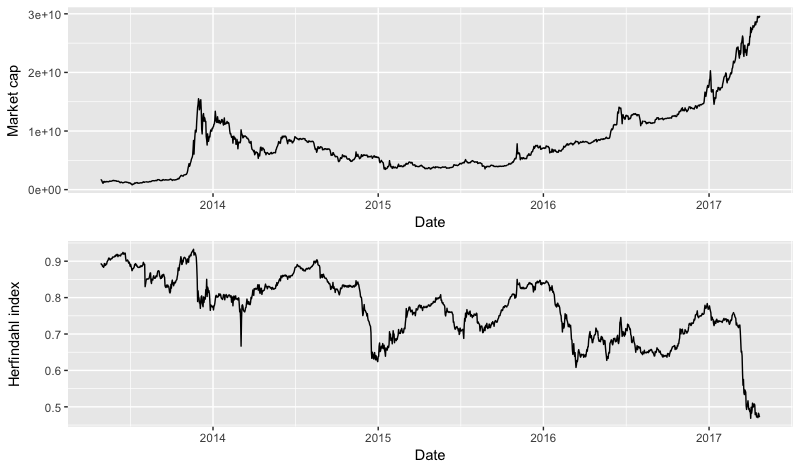
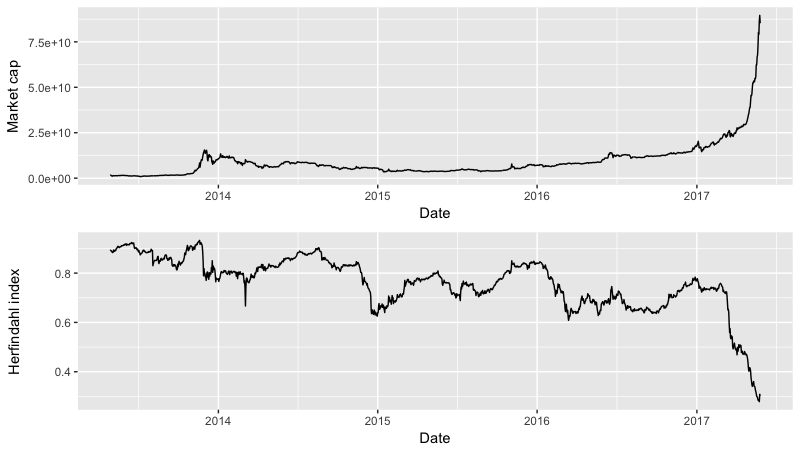
Updated 26/05/17

diff --git a/README.md b/README.md
@@ -7,7 +7,7 @@ Especially in light of the increasing number of successful coins and [decreasing
 
 ## Progress
 
-*Data updated 23/04/2017; Extended to top 25; Added assets; Fixed error in corrplot*
+*Data updated 26/05/2017; Extended to top 25; Added assets; Fixed error in corrplot*
 
 This is a work in progress. Steps taken so far:
 
@@ -18,8 +18,8 @@ This is a work in progress. Steps taken so far:
 	> The Herfindahl index measures competition in a market by summing the squares of all competitor market shares. It ranges from 1/N (highly competitive) to 1 (high concentration), where N is the number of competitors. [More information.](https://en.wikipedia.org/wiki/Herfindahl_index)
 
 	- Here, we see that both market capitalisation and competition are increasing over time.
-	
-	![Market cap and hHerfindahl index](https://raw.githubusercontent.com/prouast/cryptocurrency-analysis/master/Market-cap-herfindahl.png?style=centerme)
+
+	![Market cap and Herfindahl index](https://raw.githubusercontent.com/prouast/cryptocurrency-analysis/master/Market-cap-herfindahl.png?style=centerme)
 
 3. Calculate the **daily return** for each coin.
 
@@ -30,15 +30,15 @@ This is a work in progress. Steps taken so far:
 	![Returns for bitcoin, ethereum and ripple](https://raw.githubusercontent.com/prouast/cryptocurrency-analysis/master/Coin-returns.png?style=centerme)
 
 	- This also allows us to investigate the correlations between the daily returns of arbitrary coins. Example: **Plotting bitcoin vs ethereum returns**. Here, every point represents one day.
-	
+
 		> Correlation measures the linear relationship between two sets of data. A high value when comparing the daily returns of two coins indicates a positive linear relationship of the returns in the past.
-	
+
 	![Returns for bitcoin vs ethereum](https://raw.githubusercontent.com/prouast/cryptocurrency-analysis/master/Bitcoin-vs-ethereum-returns.png?style=centerme)
 
 	- Finally, we can look at pairwise correlations between all coins: **Visualisation of the correlation matrix for top 25 cryptocurrencies**.
-	
+
 		> The (symmetric) correlation matrix visualises the correlation for each pair of variables - from perfect positive linear relationship (blue) to perfect negative linear relationship (red).
-	
+
 	![Corrplot](https://raw.githubusercontent.com/prouast/cryptocurrency-analysis/master/Corrplot.png?style=centerme)
 
 4. Calculate overall **market returns** by weighting individual returns with market capitalisations.
@@ -49,16 +49,16 @@ This is a work in progress. Steps taken so far:
 	![Market return](https://raw.githubusercontent.com/prouast/cryptocurrency-analysis/master/Market-return.png?style=centerme)
 
 	- Similarly, we can investigate the correlation of arbitrary coins with the market return. Example: **Plotting ethereum vs market return**
-	
+
 	![Market return](https://raw.githubusercontent.com/prouast/cryptocurrency-analysis/master/Ethereum-vs-market-return.png?style=centerme)
-	
+
 5. Calculate coin `beta` to characterise the behaviour of each coin return with respect to the market return.
 
 	- Beta represents the covariance of coin returns and market returns, scaled by the variance of the market returns.
 	  See [Wikipedia](https://en.wikipedia.org/wiki/Capital_asset_pricing_model) for more information.
-	  
-		> Investors use the information encoded in the beta coefficient to characterise an asset's volatility and tendency to move in accordance with the market index. `beta = 1` indicates that the asset moves exactly like the market index. [More information.](https://en.wikipedia.org/wiki/Beta_(finance)) Here, the market is dominated by bitcoin, hence bitcoin's beta is very close to 1 and a coin's beta can also be interpreted as a comparison to bitcoin's movement. 
-	  
+
+		> Investors use the information encoded in the beta coefficient to characterise an asset's volatility and tendency to move in accordance with the market index. `beta = 1` indicates that the asset moves exactly like the market index. [More information.](https://en.wikipedia.org/wiki/Beta_(finance)) Here, the market is dominated by bitcoin, hence bitcoin's beta is very close to 1 and a coin's beta can also be interpreted as a comparison to bitcoin's movement.
+
 	- Here, we plot coin betas against market capitalisations for the top 25 coins in terms of market capitalisation.
-	
+
 	![Beta vs Mcap](https://raw.githubusercontent.com/prouast/cryptocurrency-analysis/master/Beta-vs-mcap.png?style=centerme)
